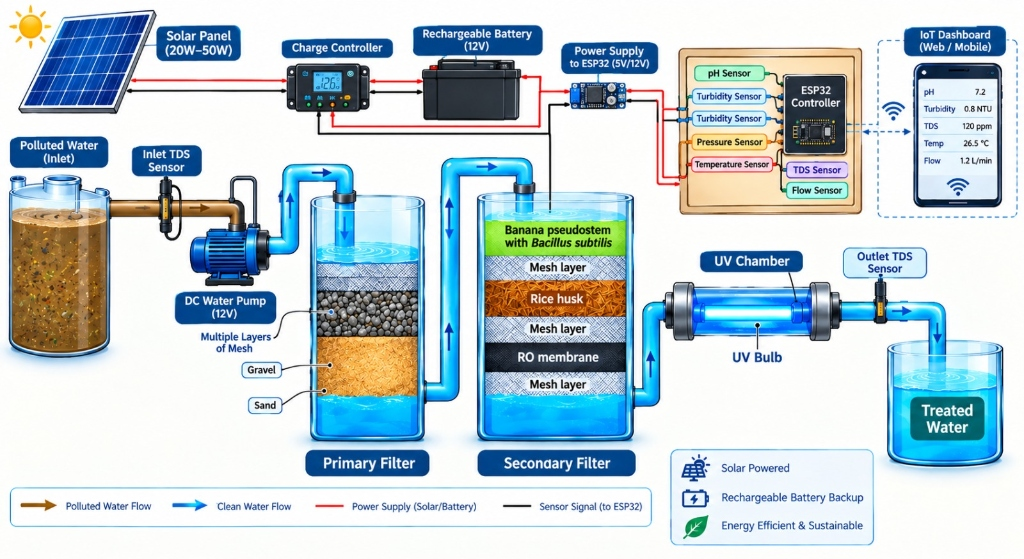
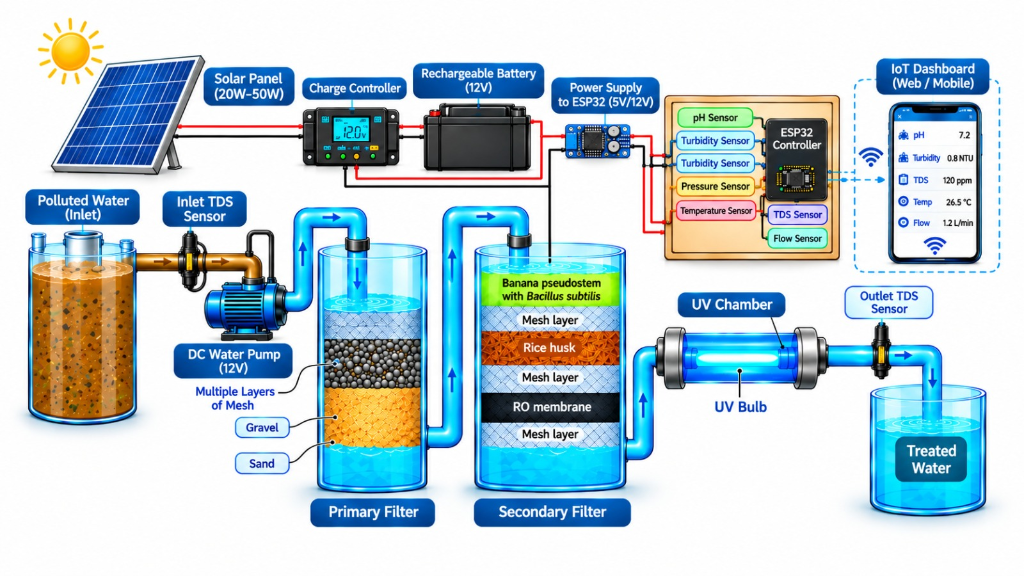
feat: update prototype architecture diagram to high-res clean graphic and calibrate hotspot pin positions

diff --git a/index.html b/index.html
@@ -447,7 +447,7 @@
             <!-- The Schematic Diagram with Hotspot Overlay Pins -->
             <div class="proto-schematic-stage" id="proto-schematic-stage">
               <img
-                src="./assets/images/prototype-architecture-diagram.jpg"
+                src="./assets/images/prototype-architecture-diagram.png"
                 alt="AGRO-BIO SORB Complete Engineering Architecture Schematic"
                 class="proto-schematic-img"
                 id="proto-schematic-img"
@@ -455,98 +455,98 @@
 
               <!-- HOTSPOT PINS -->
               <!-- 1. Solar Panel -->
-              <button class="proto-hotspot" style="top: 13%; left: 13%;" data-component="proto-solar" aria-label="Solar Panel 20W-50W">
+              <button class="proto-hotspot" style="top: 18%; left: 13%;" data-component="proto-solar" aria-label="Solar Panel 20W-50W">
                 <span class="hotspot-pulse"></span>
                 <span class="hotspot-core">☀</span>
                 <span class="hotspot-tooltip">Solar Panel (20W–50W)</span>
               </button>
 
               <!-- 2. Charge Controller -->
-              <button class="proto-hotspot" style="top: 13%; left: 32%;" data-component="proto-controller" aria-label="Charge Controller">
+              <button class="proto-hotspot" style="top: 23%; left: 34%;" data-component="proto-controller" aria-label="Charge Controller">
                 <span class="hotspot-pulse"></span>
                 <span class="hotspot-core">⚡</span>
-                <span class="hotspot-tooltip">Charge Controller (12.6V)</span>
+                <span class="hotspot-tooltip">Charge Controller (12V)</span>
               </button>
 
               <!-- 3. Rechargeable Battery -->
-              <button class="proto-hotspot" style="top: 13%; left: 46%;" data-component="proto-battery" aria-label="12V Rechargeable Battery">
+              <button class="proto-hotspot" style="top: 23%; left: 46%;" data-component="proto-battery" aria-label="12V Rechargeable Battery">
                 <span class="hotspot-pulse"></span>
                 <span class="hotspot-core">🔋</span>
                 <span class="hotspot-tooltip">12V Battery Backup</span>
               </button>
 
               <!-- 4. Power Supply to ESP32 (Buck Converter) -->
-              <button class="proto-hotspot" style="top: 14%; left: 59%;" data-component="proto-buck" aria-label="Power Supply Buck Converter">
+              <button class="proto-hotspot" style="top: 24%; left: 58%;" data-component="proto-buck" aria-label="Power Supply Buck Converter">
                 <span class="hotspot-pulse"></span>
                 <span class="hotspot-core">🔌</span>
                 <span class="hotspot-tooltip">Power Supply (5V/12V Buck)</span>
               </button>
 
               <!-- 5. ESP32 Controller & Sensors -->
-              <button class="proto-hotspot" style="top: 22%; left: 75%;" data-component="proto-esp32" aria-label="ESP32 Controller and Sensor Array">
+              <button class="proto-hotspot" style="top: 28%; left: 74%;" data-component="proto-esp32" aria-label="ESP32 Controller and Sensor Array">
                 <span class="hotspot-pulse"></span>
                 <span class="hotspot-core">📟</span>
                 <span class="hotspot-tooltip">ESP32 &amp; Sensor Array</span>
               </button>
 
               <!-- 6. IoT Dashboard (Mobile / Web) -->
-              <button class="proto-hotspot" style="top: 22%; left: 93%;" data-component="proto-dashboard" aria-label="IoT Web and Mobile Dashboard">
+              <button class="proto-hotspot" style="top: 32%; left: 91%;" data-component="proto-dashboard" aria-label="IoT Web and Mobile Dashboard">
                 <span class="hotspot-pulse"></span>
                 <span class="hotspot-core">📱</span>
                 <span class="hotspot-tooltip">IoT Mobile Dashboard</span>
               </button>
 
               <!-- 7. Polluted Water Inlet Tank -->
-              <button class="proto-hotspot" style="top: 48%; left: 6%;" data-component="proto-inlet" aria-label="Polluted Water Inlet Tank">
+              <button class="proto-hotspot" style="top: 58%; left: 8%;" data-component="proto-inlet" aria-label="Polluted Water Inlet Tank">
                 <span class="hotspot-pulse"></span>
                 <span class="hotspot-core">🟤</span>
                 <span class="hotspot-tooltip">Polluted Water (Inlet)</span>
               </button>
 
               <!-- 8. Inlet TDS Sensor -->
-              <button class="proto-hotspot" style="top: 36%; left: 16%;" data-component="proto-inlet-tds" aria-label="Inlet TDS Sensor">
+              <button class="proto-hotspot" style="top: 47%; left: 18%;" data-component="proto-inlet-tds" aria-label="Inlet TDS Sensor">
                 <span class="hotspot-pulse"></span>
                 <span class="hotspot-core">🧪</span>
                 <span class="hotspot-tooltip">Inlet TDS Sensor</span>
               </button>
 
               <!-- 9. DC Water Pump (12V) -->
-              <button class="proto-hotspot" style="top: 49%; left: 22%;" data-component="proto-pump" aria-label="DC Water Pump 12V">
+              <button class="proto-hotspot" style="top: 56%; left: 24%;" data-component="proto-pump" aria-label="DC Water Pump 12V">
                 <span class="hotspot-pulse"></span>
                 <span class="hotspot-core">⚙</span>
                 <span class="hotspot-tooltip">DC Water Pump (12V)</span>
               </button>
 
               <!-- 10. Primary Filter (Gravel & Sand) -->
-              <button class="proto-hotspot" style="top: 54%; left: 36%;" data-component="proto-primary" aria-label="Primary Filter Column">
+              <button class="proto-hotspot" style="top: 64%; left: 36%;" data-component="proto-primary" aria-label="Primary Filter Column">
                 <span class="hotspot-pulse"></span>
                 <span class="hotspot-core">🪨</span>
                 <span class="hotspot-tooltip">Primary Filter (Mesh, Gravel, Sand)</span>
               </button>
 
               <!-- 11. Secondary Filter (Banana + B. subtilis & Rice Husk) -->
-              <button class="proto-hotspot active" style="top: 54%; left: 54%;" data-component="proto-secondary" aria-label="Secondary Bio-Filter Column">
+              <button class="proto-hotspot active" style="top: 64%; left: 54%;" data-component="proto-secondary" aria-label="Secondary Bio-Filter Column">
                 <span class="hotspot-pulse"></span>
                 <span class="hotspot-core">🌿</span>
                 <span class="hotspot-tooltip">Secondary Filter (Banana + Rice Husk + RO)</span>
               </button>
 
               <!-- 12. UV Chamber -->
-              <button class="proto-hotspot" style="top: 55%; left: 73%;" data-component="proto-uv" aria-label="Germicidal UV Chamber">
+              <button class="proto-hotspot" style="top: 64%; left: 72%;" data-component="proto-uv" aria-label="Germicidal UV Chamber">
                 <span class="hotspot-pulse"></span>
                 <span class="hotspot-core">💡</span>
                 <span class="hotspot-tooltip">UV Chamber (254nm Lamp)</span>
               </button>
 
               <!-- 13. Outlet TDS Sensor -->
-              <button class="proto-hotspot" style="top: 49%; left: 86%;" data-component="proto-outlet-tds" aria-label="Outlet TDS Sensor">
+              <button class="proto-hotspot" style="top: 59%; left: 86%;" data-component="proto-outlet-tds" aria-label="Outlet TDS Sensor">
                 <span class="hotspot-pulse"></span>
                 <span class="hotspot-core">🔬</span>
                 <span class="hotspot-tooltip">Outlet TDS Sensor</span>
               </button>
 
               <!-- 14. Treated Water Reservoir -->
-              <button class="proto-hotspot" style="top: 68%; left: 92%;" data-component="proto-outlet" aria-label="Treated Clean Water Tank">
+              <button class="proto-hotspot" style="top: 78%; left: 91%;" data-component="proto-outlet" aria-label="Treated Clean Water Tank">
                 <span class="hotspot-pulse"></span>
                 <span class="hotspot-core">💧</span>
                 <span class="hotspot-tooltip">Treated Water Reservoir</span>
